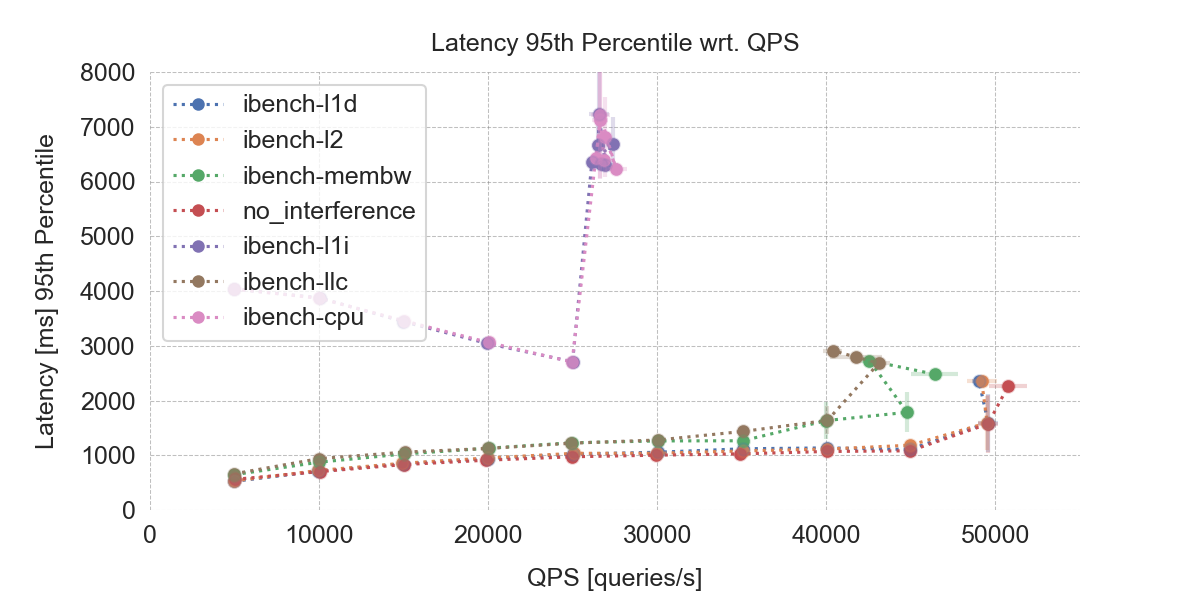
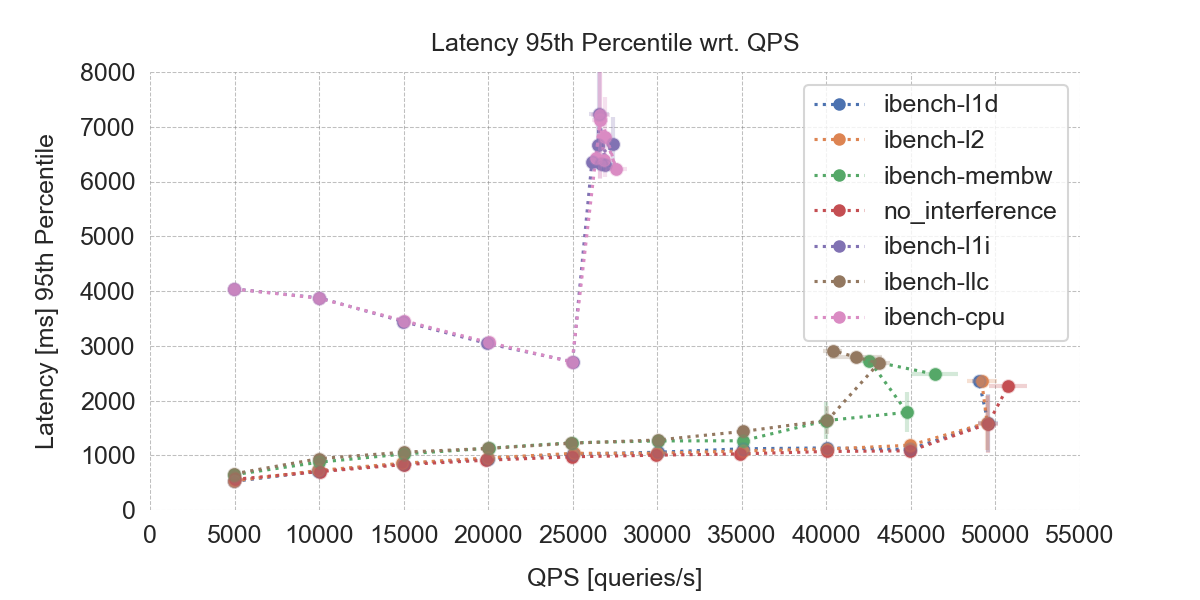
better plot

diff --git a/scripts/plot.py b/scripts/plot.py
@@ -48,6 +48,8 @@ def plt_setup(xlim, ylim, title=None, xlabel=None, ylabel=None):
     sns.despine(left=True, bottom=True)
     plt.xlim(xlim)
     plt.ylim(ylim)
+    # set ticks on x axis to every 5000
+    plt.xticks(np.arange(0, xlim[1], 5000))
     plt.xlabel(xlabel or "QPS [queries/s]", labelpad=10, fontsize=12)  # Adjust labelpad and fontsize
     plt.ylabel(ylabel or "Latency [ms] 95th Percentile", labelpad=10, fontsize=12)
     plt.title(title or "Latency 95th Percentile wrt. QPS", pad=10, fontsize=12)
@@ -63,7 +65,7 @@ if __name__ == "__main__":
         os.chdir("../")
     # check if --task1 flag is present
     if "--task1" in sys.argv:
-        plt_setup(xlim=(0, 55e3), ylim=(0, 8e3))
+        plt_setup(xlim=(0, 55e3 + 1), ylim=(0, 8e3))
         colors = cycle(plt.rcParams["axes.prop_cycle"].by_key()["color"])
         benchmarks = [b for b in os.listdir("results") if os.path.isdir(f"results/{b}")]
         for benchmark in benchmarks:
@@ -71,7 +73,7 @@ if __name__ == "__main__":
             p95_mean, p95_std = get_mean_std(dfs, "p95")
             qps_mean, qps_std = get_mean_std(dfs, "QPS")
             plot_errorbar(qps_mean, p95_mean, qps_std, p95_std, label=f"{benchmark}", color=next(colors))
-        plt.legend(loc="upper left")
+        plt.legend(loc="upper right")
         plt.subplots_adjust(bottom=0.15)
         plt.savefig("results/latency_95th_percentile_qps_part1.png")
         plt.show()
